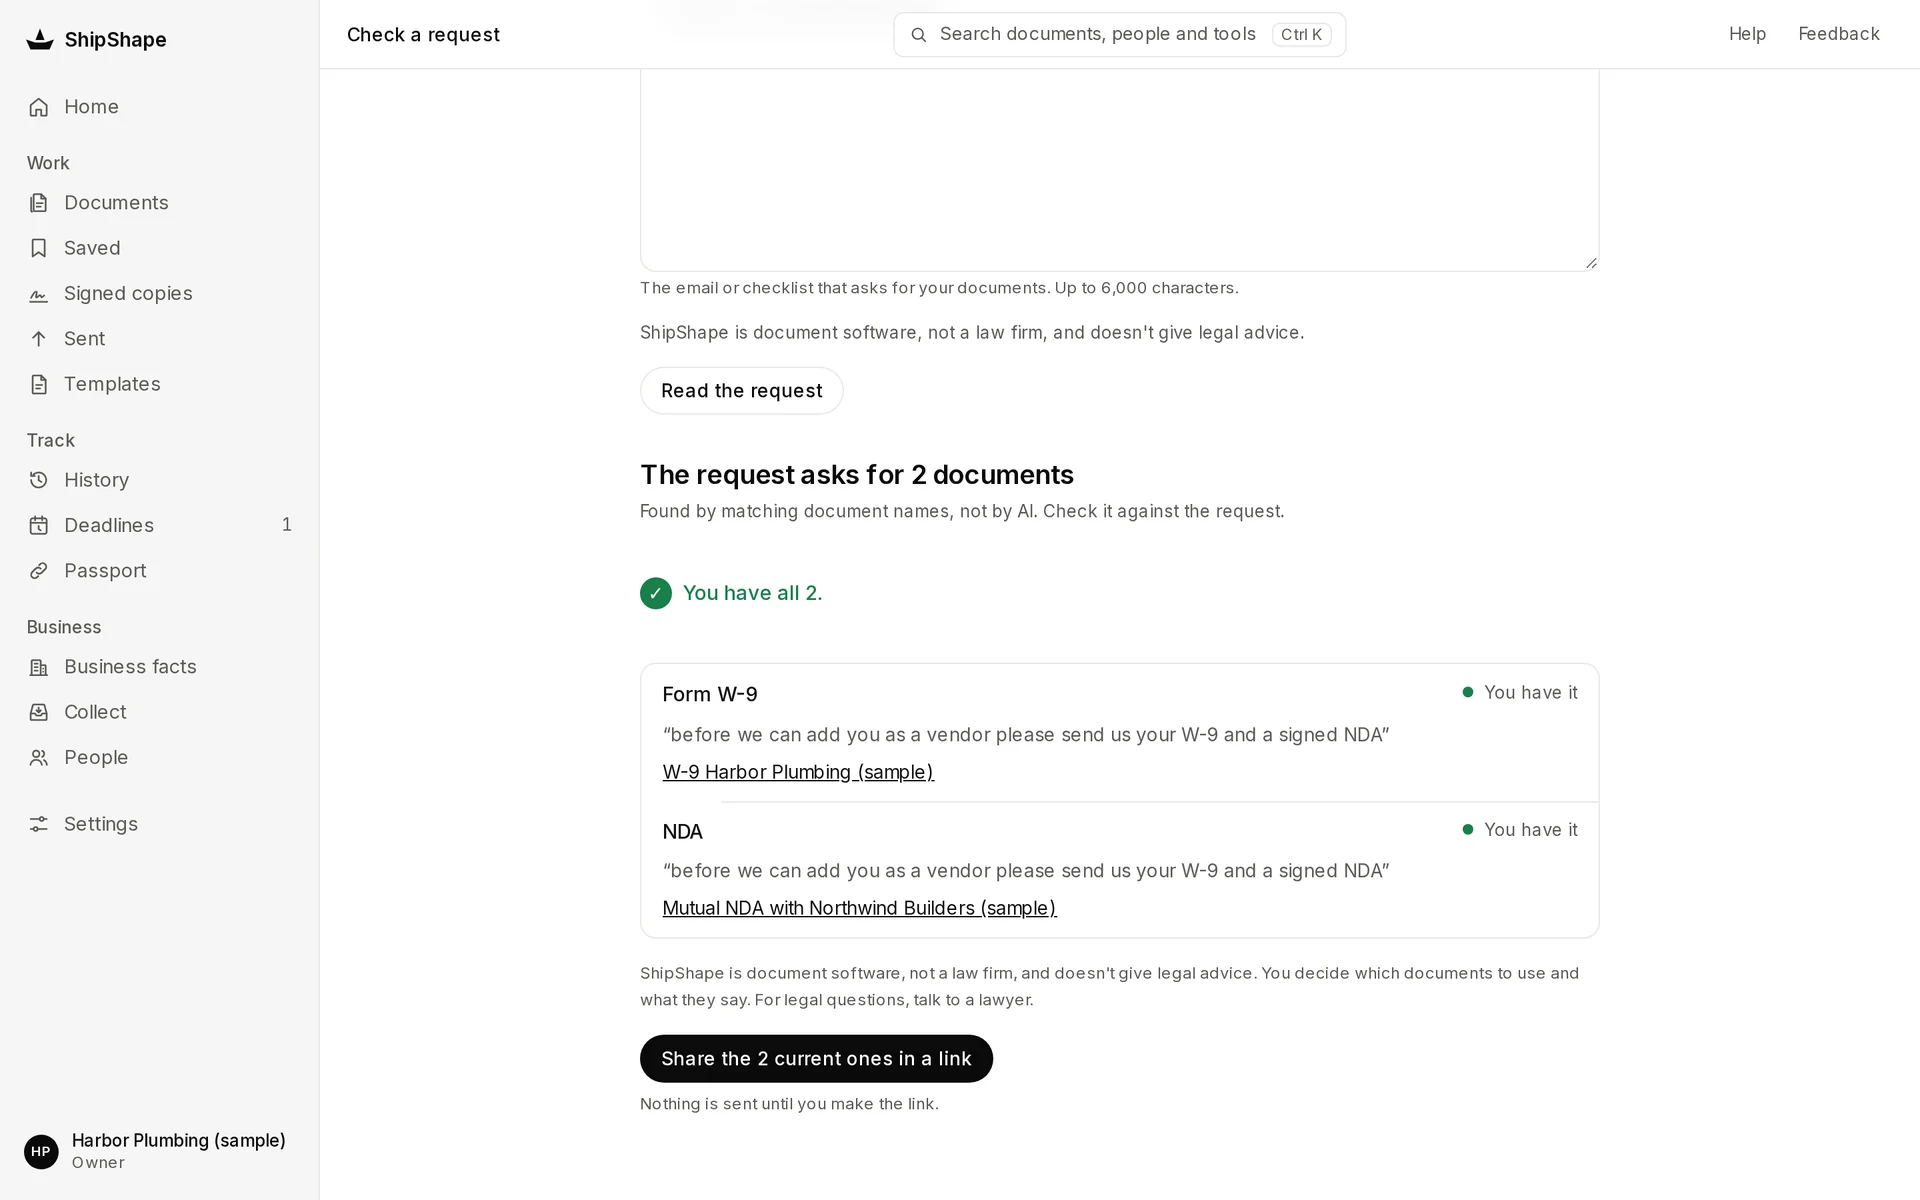
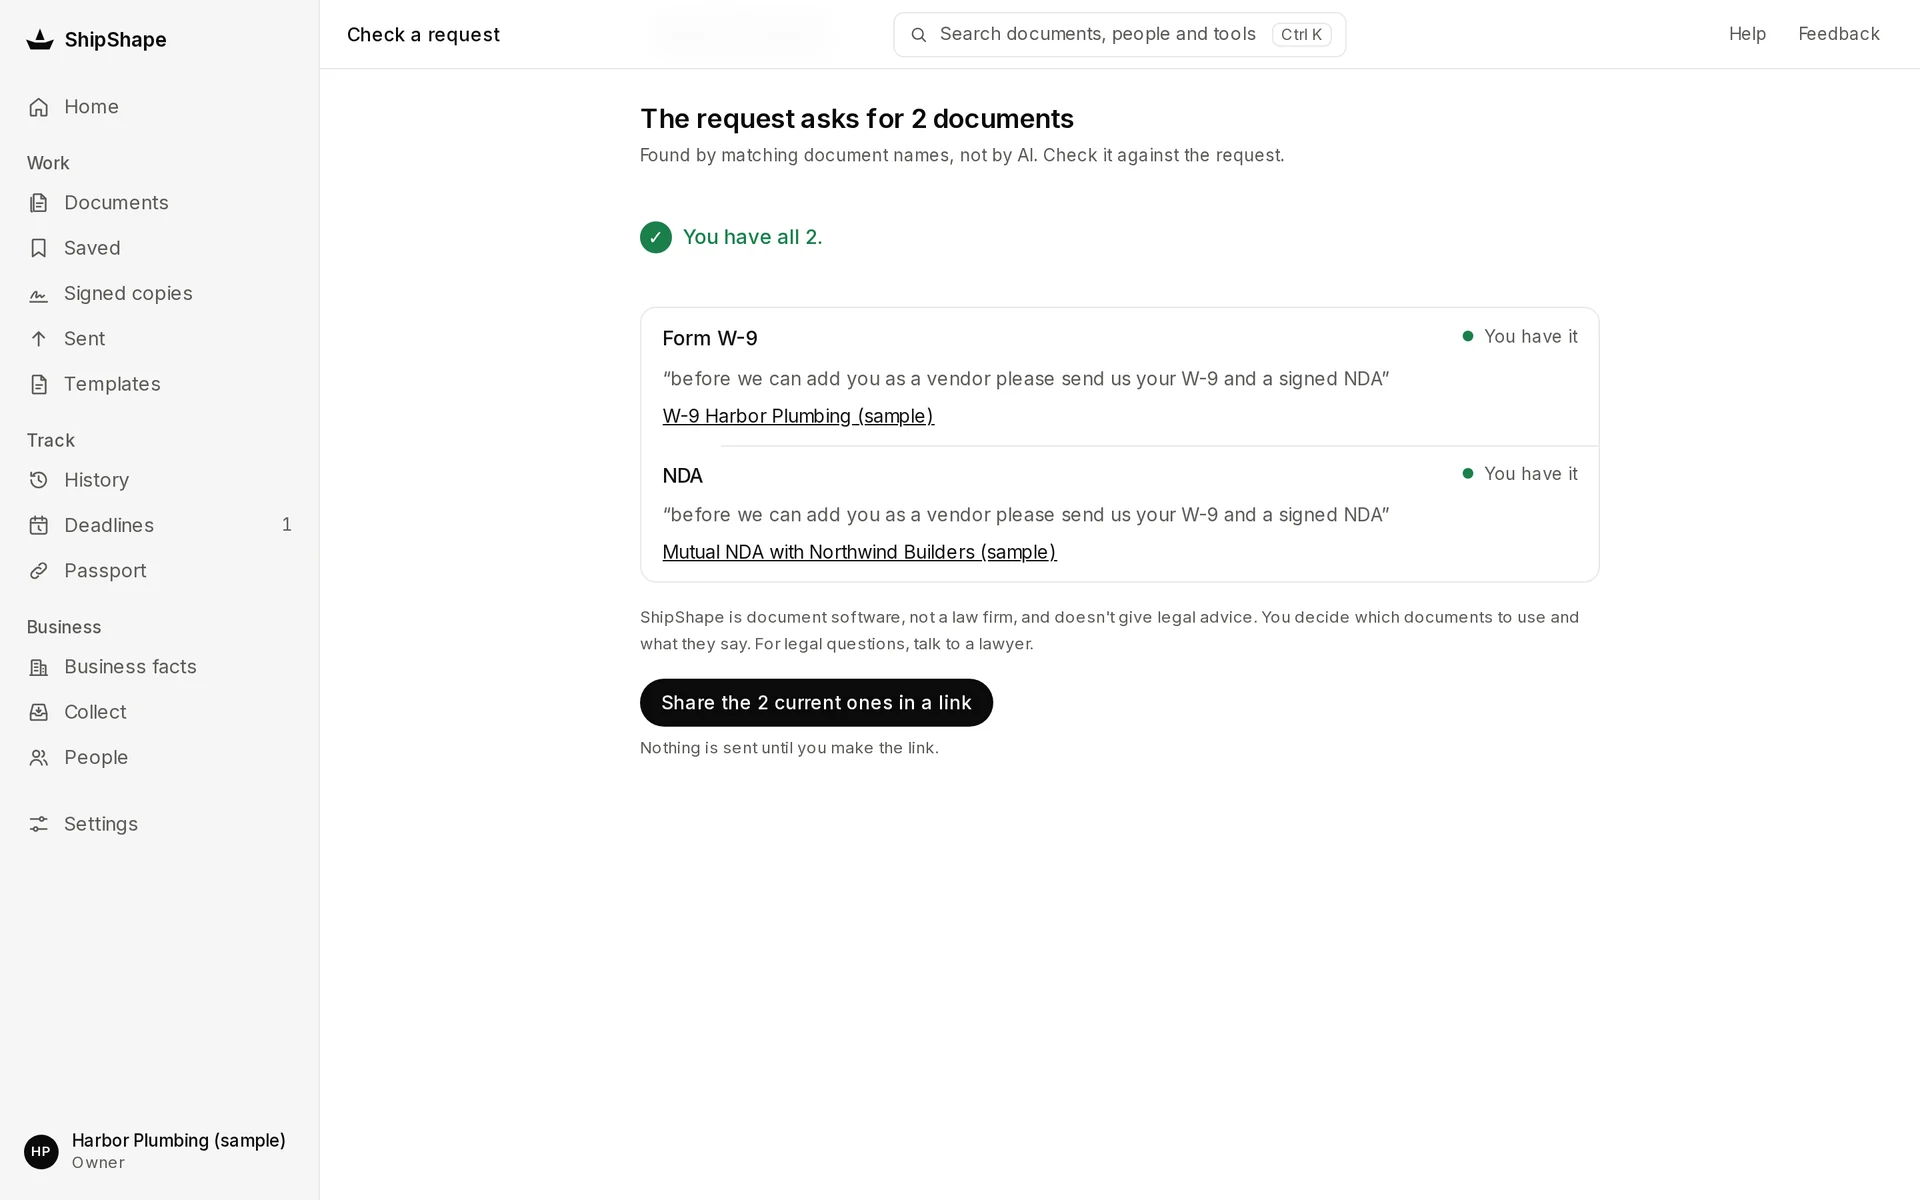
Site: the tour's second scene starts at the answer; one-word steps on phones
The 1440 window for See what you have now opens on the answer's title under the app's top bar (a new
frame of the sample, check-result-top), not partway down the request form. Below 480px the step pills
read 1 Paste, 2 Check, 3 Send so the three fit one row; the line under them carries the detail.
BOSS and Design, row 525.

diff --git a/app/home-quiet.tsx b/app/home-quiet.tsx
@@ -17,6 +17,7 @@ import { PITCH, STEPS, TRUST, WHO, capabilities } from "./home-content";
 const TOUR: TourScene[] = [
   {
     title: "Paste the ask",
+    short: "Paste",
     body: "Their email or checklist, as sent.",
     page: "Check a request",
     alt: "Check a request in the sample: Northwind Builders' message pasted in, asking for a W-9 and a signed NDA.",
@@ -25,6 +26,7 @@ const TOUR: TourScene[] = [
   },
   {
     title: "See what you have",
+    short: "Check",
     body: "You have it, Expires soon, Expired, or Not in your documents.",
     page: "Check a request",
     alt: "The answer in the sample: the request asks for 2 documents, found by matching document names, not by AI. Form W-9: You have it. NDA: You have it.",
@@ -33,6 +35,7 @@ const TOUR: TourScene[] = [
   },
   {
     title: "Send one link",
+    short: "Send",
     body: "It stops after 7, 30 or 90 days, and you see each time it's opened.",
     page: "Passport",
     alt: "Passport in the sample: the link Northwind Builders onboarding (sample), 3 documents, opened 3 times, Working.",

diff --git a/components/site-tour.tsx b/components/site-tour.tsx
@@ -4,6 +4,8 @@ import { useEffect, useRef, useState } from "react";
 
 export type TourScene = {
   title: string;
+  /** The step's one word for phones narrower than 480px, where the three titles don't fit one row. */
+  short: string;
   body: string;
   /** The app page the scene shows, written in the window's bar. */
   page: string;
@@ -100,7 +102,8 @@ export function SiteTour({ scenes }: { scenes: TourScene[] }) {
             {scenes.map((scene, i) => (
               <li key={scene.title} data-on={i === on ? "" : undefined}>
                 <b>{i + 1}</b>
-                {scene.title}
+                <span className="sq-tour-step-long">{scene.title}</span>
+                <span className="sq-tour-step-short">{scene.short}</span>
               </li>
             ))}
           </ol>

diff --git a/app/site-quiet.css b/app/site-quiet.css
@@ -595,6 +595,18 @@ html:has(.sq-header) {
 .site-quiet .sq-tour-steps li[data-on] b {
   color: #ffffff;
 }
+/* Below 480px the three titles don't fit one row: each pill keeps its number and one word (the line under says more). */
+.site-quiet .sq-tour-step-short {
+  display: none;
+}
+@media (max-width: 479px) {
+  .site-quiet .sq-tour-step-long {
+    display: none;
+  }
+  .site-quiet .sq-tour-step-short {
+    display: inline;
+  }
+}
 /* Two lines held for every scene's line, so the steps don't move when a longer one wraps (the 390 tour). */
 .site-quiet .sq-tour-line {
   min-height: 3em;

diff --git a/scripts/site-shots.py b/scripts/site-shots.py
@@ -19,9 +19,10 @@ WINDOW = (0, 0, 2880, 1800)
 
 # name: (still, (left, top, right, bottom), output width or None to keep the crop's own width)
 SHOTS = {
-    # The tour (components/site-tour.tsx). Desktop: the whole 1440 window, shown at 960 CSS px.
+    # The tour (components/site-tour.tsx). Desktop: the whole 1440 window, shown at 960 CSS px. Each scene's own
+    # content starts at the top: the answer is check-result-top (film_take.py), its title just under the top bar.
     "tour-ask": (f"{FRAMES}/check-answered-1440.png", WINDOW, 1920),
-    "tour-answer": (f"{FRAMES}/check-result-1440.png", WINDOW, 1920),
+    "tour-answer": ("site-a-58/frames/check-result-top-1440.png", WINDOW, 1920),
     "tour-link": (f"{FRAMES}/passport-1440.png", WINDOW, 1920),
     # Phone: the one pane that matters, 366 CSS px wide, so it shows at about 1:1 in a 390 screen (Design MUST 2: the
     # app's text at 12px or more). The request and its box; the answer's heading and rows; the link.
